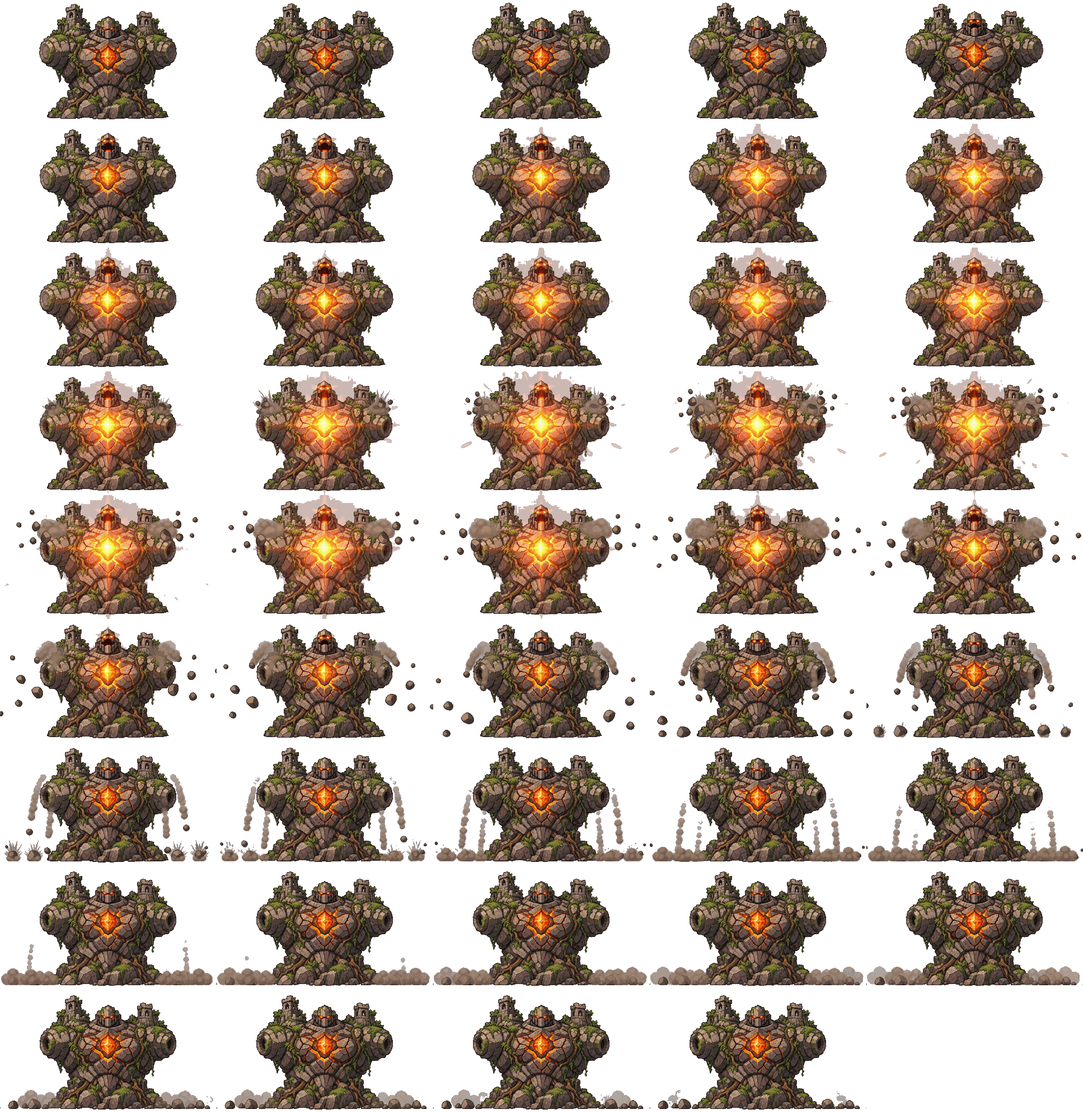
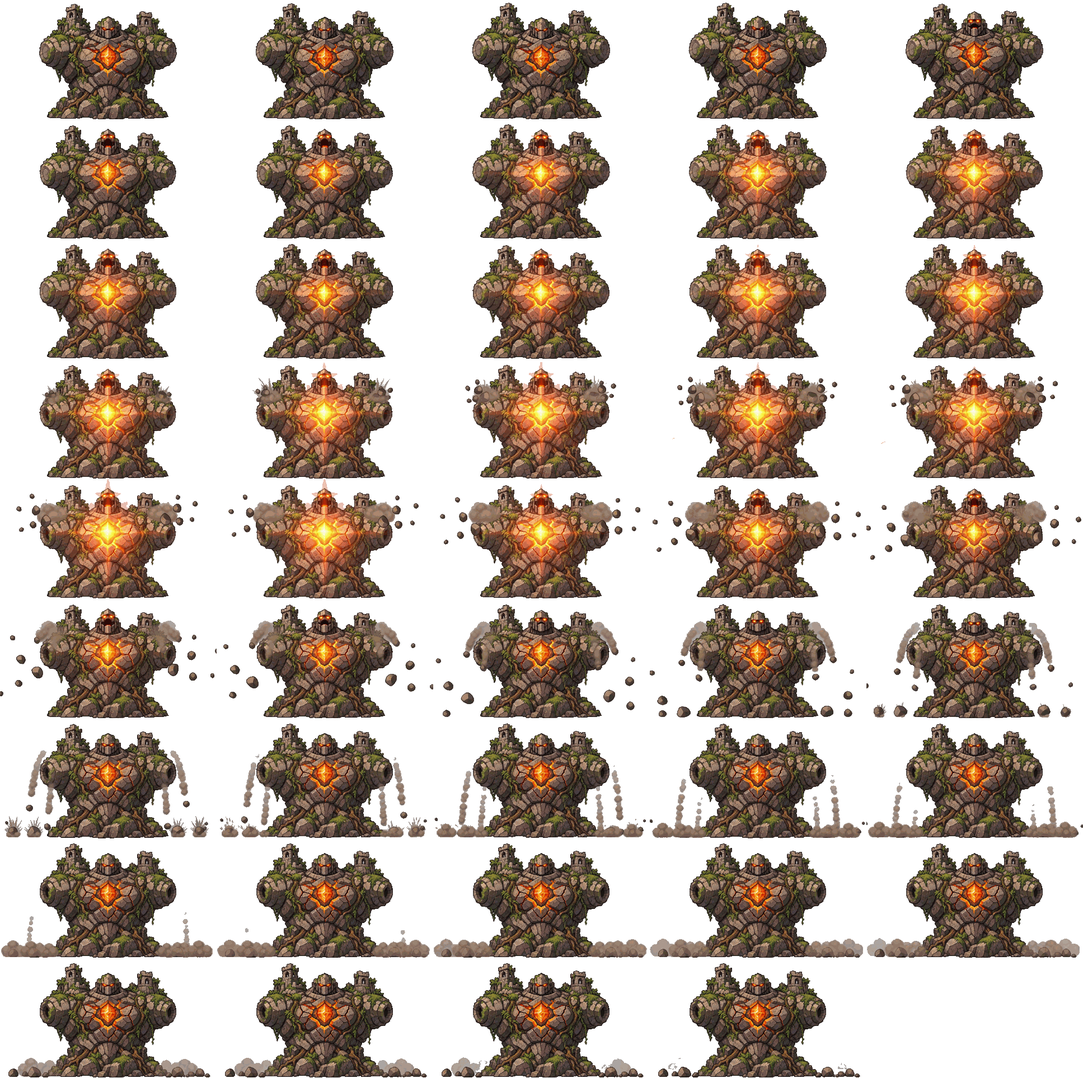
골렘 영상 바탕 지우기 개선: 핵 빛에 밝아진 바탕과 몸 사이 회색 틈까지 지움
Claude-Session: https://claude.ai/code/session_01CPuQwRxjahy2BkbhjWZhoU

diff --git a/art/boss1/video_cut.py b/art/boss1/video_cut.py
@@ -16,9 +16,23 @@ files = sorted(glob.glob(TMP + "/*.png"))
 GI = json.loads(open("index.html").read().split("const GIANT = ")[1].split(";")[0])
 gi = Image.open("assets/giant.png").convert("RGBA"); b2 = GI[REF]; body = gi.crop((b2[0], b2[1], b2[0] + b2[2], b2[1] + b2[3]))
 bx0, by0, bx1, by1 = body.getbbox()
+from scipy import ndimage
+def key2(a, hole=600):
+    # 바탕: 회색 바탕과 거의 같은 색 + 핵 빛을 받아 밝아진 바탕(밝고 색이 옅은 곳). 테두리와 이어진 것과, 몸 사이에 갇힌 덩어리(hole 이상)를 지운다
+    bg = np.median(np.concatenate([a[:6].reshape(-1, 3), a[-6:].reshape(-1, 3), a[:, :6].reshape(-1, 3), a[:, -6:].reshape(-1, 3)]), axis=0)
+    lum = a.mean(axis=2); sat = a.max(axis=2) - a.min(axis=2)
+    strict = np.abs(a - bg).max(axis=2) <= 16
+    back = ndimage.binary_opening(strict | ((lum >= bg.mean() - 8) & (sat <= 48)), iterations=1)
+    lab, n = ndimage.label(back)                              # 넓은 기준: 테두리와 이어진 것만 (빛 번진 바탕)
+    edge = set(np.unique(np.concatenate([lab[0], lab[-1], lab[:, 0], lab[:, -1]]))) - {0}
+    m = ~np.isin(lab, list(edge))
+    ls, ns = ndimage.label(strict & m); ss = ndimage.sum(strict, ls, range(1, ns + 1))   # 좁은 기준(진짜 회색)만 갇힌 구멍으로 지운다
+    m &= ~np.isin(ls, [i + 1 for i in range(ns) if ss[i] > hole])
+    # 남은 조각 중 아주 작은 것(빛줄기 부스러기)은 버린다
+    l2, n2 = ndimage.label(m); s2 = ndimage.sum(m, l2, range(1, n2 + 1)); return np.isin(l2, [i + 1 for i in range(n2) if s2[i] >= 40])
 masks = []
 for f in files:
-    a = np.asarray(Image.open(f).convert("RGB")).astype(int); m = key(a, thr=14, hole=4000); masks.append((a, m))
+    a = np.asarray(Image.open(f).convert("RGB")).astype(int); m = key2(a); masks.append((a, m))
 ys, xs = np.nonzero(masks[0][1]); vx0, vx1, vy1 = xs.min(), xs.max() + 1, ys.max() + 1
 s = (bx1 - bx0) / (vx1 - vx0)                              # 영상 px → 게임 px
 # 모든 프레임의 공통 상자 (영상 좌표)
